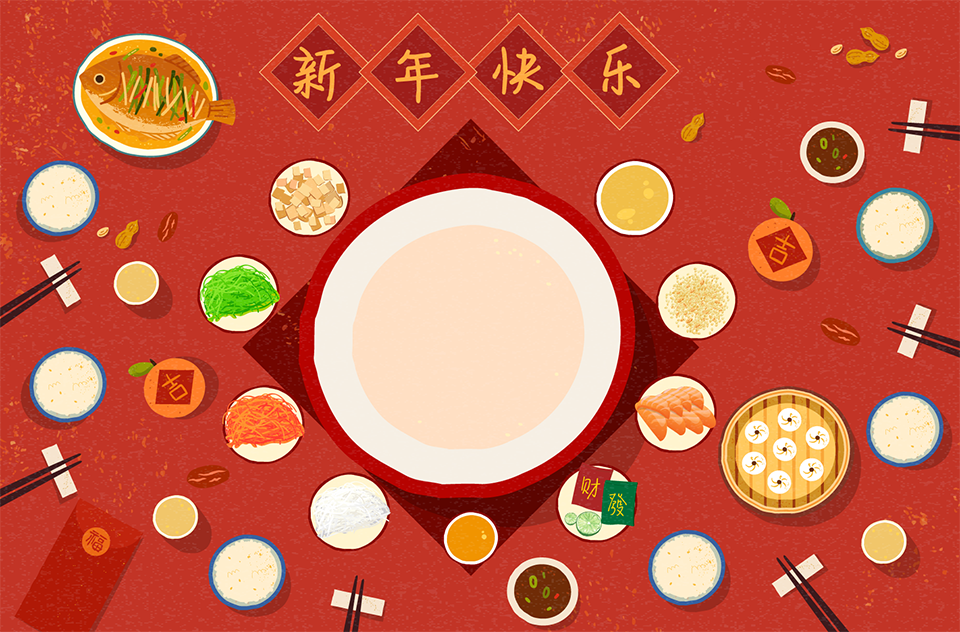
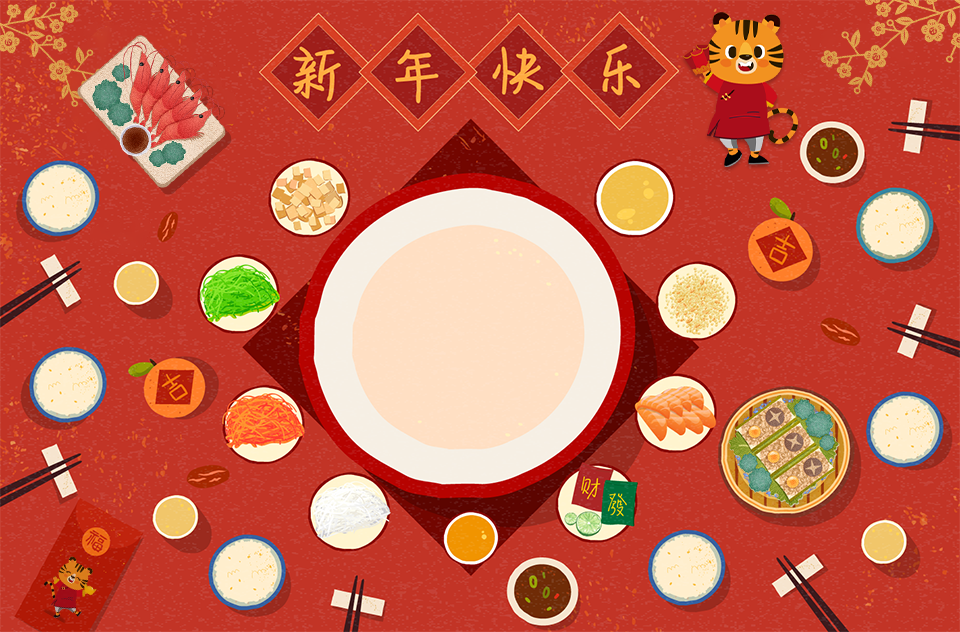
CNY 2022

diff --git a/index.html b/index.html
@@ -2,21 +2,17 @@
 <html lang="en">
 
 <head>
-    <!-- Haw Jeh who came up the idea and code it -->
-    <!-- Thanks Chee Chiu for supporting the idea -->
-    <!-- Specially thanks Mindy for the design! -->
-    <!-- Wish everyone Happy Chinese New Year 2021, Great Year Ahead -->
     <meta charset="utf-8">
     <meta http-equiv="X-UA-Compatible" content="IE=edge">
     <meta name="viewport" content="width=device-width, initial-scale=1, shrink-to-fit=no">
 
     <meta property="keywords"
-        content="louhei sg, louhei, sg, chinese new year, chinese niu year, happy ox year, ox year">
-    <meta property="description" content="Websparks Wish You a Happy Chinese Niu Year 2021! Huat Ah!">
+        content="louhei sg, louhei, sg, chinese new year, chinese new year, happy tiger year, tiger year">
+    <meta property="description" content="Websparks Wish You a Happy Chinese New Year 2022! Huat Ah!">
 
-    <meta property="og:title" content="Chinese Niu Year 2021!">
+    <meta property="og:title" content="Chinese New Year 2022!">
     <meta property="og:type" content="website" />
-    <meta property="og:description" content="Websparks Wish You a Happy Chinese Niu Year 2021! Huat Ah!">
+    <meta property="og:description" content="Websparks Wish You a Happy Chinese New Year 2022! Huat Ah!">
     <meta property="og:image" content="https://www.louhei.sg/assets/img/ws_0.png">
     <meta property="og:url" content="https://www.louhei.sg/">
     <meta name="twitter:card" content="summary_large_image">
@@ -25,7 +21,7 @@
     <link rel="stylesheet" href="https://cdn.jsdelivr.net/npm/bootstrap@4.6.0/dist/css/bootstrap.min.css"
         integrity="sha384-B0vP5xmATw1+K9KRQjQERJvTumQW0nPEzvF6L/Z6nronJ3oUOFUFpCjEUQouq2+l" crossorigin="anonymous">
     <link rel="stylesheet" href="assets/css/font-awesome.min.css" />
-    <title>Chinese Niu Year 2021!</title>
+    <title>Chinese New Year 2022!</title>
     <style>
         html,
         body {
@@ -66,6 +62,33 @@
             text-align: center;
         }
 
+        #new_lucky_draw_wrapper,
+        #new_lucky_draw_wrapper_back {
+            width: 300px;
+            height: 128px;
+            background-image: url('./assets/img/lucky_number/button.png');
+            background-size: auto 100%;
+            background-repeat: no-repeat;
+            background-position: left top;
+            cursor: pointer;
+        }
+
+        #new_lucky_draw_wrapper p,
+        #new_lucky_draw {
+            font-size: 1.3rem;
+            font-weight: 500;
+            color: white;
+            padding: 1.6rem;
+            border-radius: .25rem;
+            transition: all 0.3s;
+            min-width: 2rem;
+            text-align: center;
+        }
+
+        #new_lucky_draw {
+            font-size: 2.5rem;
+        }
+
         .fa:hover {
             background: #fd9b00;
         }
@@ -89,6 +112,48 @@
                 max-width: 150px;
                 margin-top: -15px;
             }
+        }
+
+
+        .flip-box {
+            background-color: transparent;
+            width: 300px;
+            height: 128px;
+            perspective: 1000px;
+        }
+
+        /* This container is needed to position the front and back side */
+        .flip-box-inner {
+            position: relative;
+            width: 100%;
+            height: 100%;
+            text-align: center;
+            transition: transform 0.8s;
+            transform-style: preserve-3d;
+        }
+
+        /* Position the front and back side */
+        .flip-box-front,
+        .flip-box-back {
+            position: absolute;
+            width: 100%;
+            height: 100%;
+            -webkit-backface-visibility: hidden;
+            /* Safari */
+            backface-visibility: hidden;
+        }
+
+        /* Style the front side (fallback if image is missing) */
+        .flip-box-front {
+            /* background-color: #bbb; */
+            color: white;
+        }
+
+        /* Style the back side */
+        .flip-box-back {
+            /* background-color: dodgerblue; */
+            color: white;
+            transform: rotateY(180deg);
         }
     </style>
 
@@ -159,21 +224,38 @@
                         class="fa fa-youtube-play"></span></a>
             </div>
         </div>
+    </div>
+    <div class="d-flex flex-row justify-content-center w-100">
+        <img class="img-fluid" src="./assets/img/lucky_number/Tiger-greeting-1.png" />
         <div class="d-flex flex-column align-items-center">
-            <p class="d-none" id="lucky_draw" style="padding: 0.5rem !important;">Your Lucky Number
-                is<br /><span>1234</span></p>
+            <div class="flip-box">
+                <div class="flip-box-inner d-none">
+                    <div class="flip-box-front">
+                        <div id="new_lucky_draw_wrapper">
+                            <p>CLICK HERE FOR<br />YOUR LUCKY NUMBER</p>
+                        </div>
+                    </div>
+                    <div class="flip-box-back">
+                        <div id="new_lucky_draw_wrapper_back">
+                            <p id="new_lucky_draw">CLICK HERE FOR<br />YOUR LUCKY NUMBER</p>
+                        </div>
+                    </div>
+                </div>
+            </div>
+            <p class="text-white text-center mt-3" style="bottom: 0; font-size: 0.8rem;">
+                Happy Chinese New Year 2022<br />
+                Brought to you by <a href="https://www.websparks.sg/" class="text-white"
+                    target="_blank">Websparks.sg</a>
+            </p>
         </div>
-        <p class="text-white text-center mt-3" style="bottom: 0; font-size: 0.8rem;">
-            Happy Chinese New Year 2021<br />
-            Brought to you by <a href="https://www.websparks.sg/" class="text-white" target="_blank">Websparks.sg</a>
-        </p>
+        <img class="img-fluid" src="./assets/img/lucky_number/Tiger-greeting-2.png" />
     </div>
 
     <script src="https://code.jquery.com/jquery-3.5.1.min.js"
         integrity="sha256-9/aliU8dGd2tb6OSsuzixeV4y/faTqgFtohetphbbj0=" crossorigin="anonymous"></script>
     <script src="https://cdn.jsdelivr.net/npm/bootstrap@4.6.0/dist/js/bootstrap.bundle.min.js"
         integrity="sha384-Piv4xVNRyMGpqkS2by6br4gNJ7DXjqk09RmUpJ8jgGtD7zP9yug3goQfGII0yAns" crossorigin="anonymous">
-    </script>
+        </script>
     <script>
         $(document).ready(function () {
             var huatCounter = 1,
@@ -210,9 +292,7 @@
                             }, true);
                             audioElement.play();
 
-                            $('#lucky_draw').removeClass('d-none');
-                            var luckyNumber = Math.floor(1000 + Math.random() * 9000);
-                            $('#lucky_draw span').html(luckyNumber);
+                            $('.flip-box-inner').removeClass('d-none');
                         } else {
                             audioElement.src = 'assets/voice/ws_' + nextStep + '.mp3';
                             $('iframe').contents().find('video').each(function () {
@@ -248,6 +328,12 @@
                 this.loop = true;
                 this.volume = 0.2;
             });
+
+            $('#new_lucky_draw_wrapper').click(function () {
+                $('.flip-box-inner').css('transform', 'rotateY(180deg)');
+                var luckyNumber = Math.floor(1000 + Math.random() * 9000);
+                $('#new_lucky_draw').html(luckyNumber);
+            })
         });
     </script>
 
